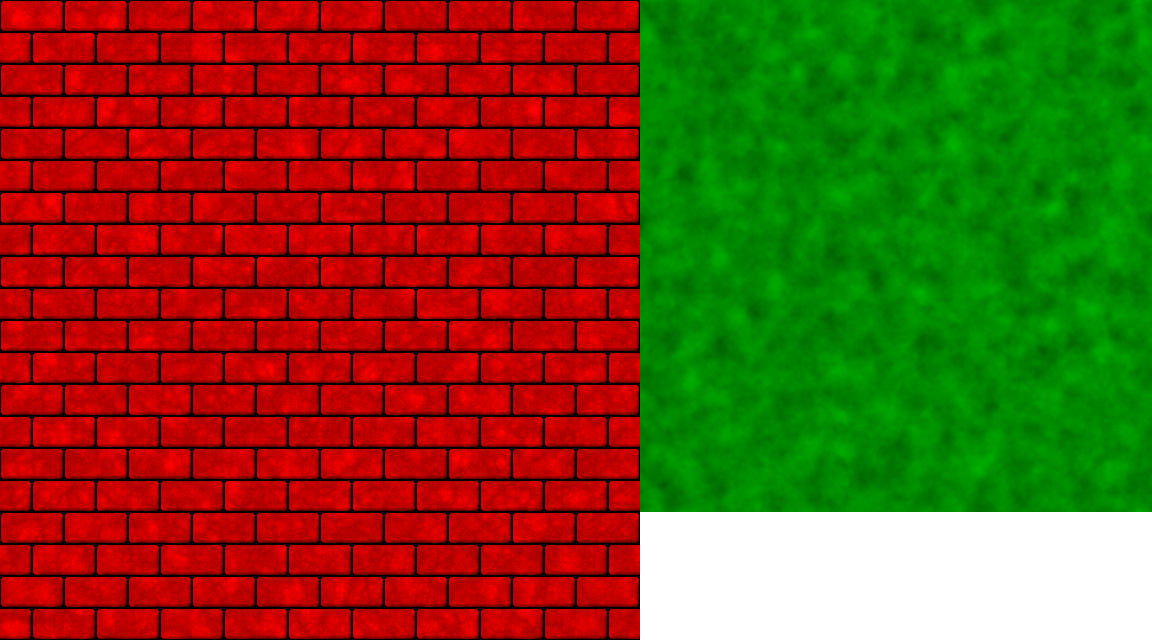
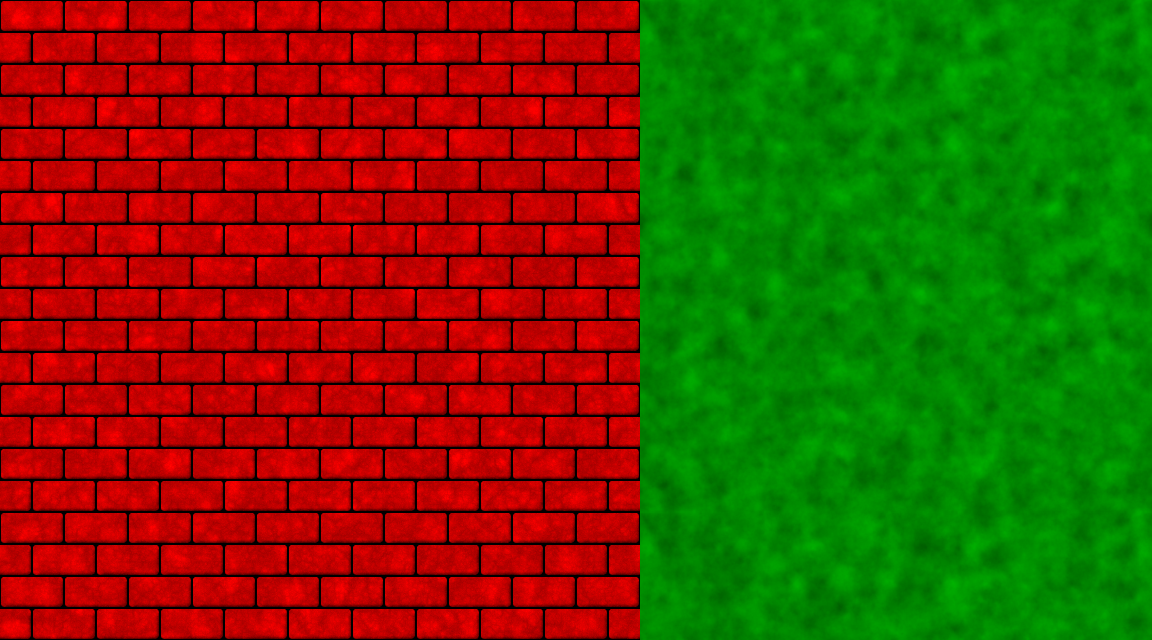
better grass

Changed region(s): [[0.5312, 0.7812, 1.0, 1.0]]

diff --git a/src/D3DApp.cpp b/src/D3DApp.cpp
@@ -175,14 +175,27 @@ void initTriangleAndInstanceData() {
 	double brick_d = 640;
 	double grass_d = 512;
 	double full_d = brick_d + grass_d;
+	double full_h = 640;
 
+	// double eff_grass_d = 512;
+	
 	for (auto& floor_vertex : maze.floor) {
 		assert(floor_vertex.tex_coord[0] >= 0 && floor_vertex.tex_coord[0] <= 1);
 		assert(floor_vertex.tex_coord[1] >= 0 && floor_vertex.tex_coord[1] <= 1);
-		floor_vertex.tex_coord[0] = (brick_d / full_d) + floor_vertex.tex_coord[0] * (1 - brick_d / full_d);
-		floor_vertex.tex_coord[1] = floor_vertex.tex_coord[1] * (grass_d / brick_d);
-		assert(floor_vertex.tex_coord[0] >= 0 && floor_vertex.tex_coord[0] <= 1);
-		assert(floor_vertex.tex_coord[1] >= 0 && floor_vertex.tex_coord[1] <= 1);
+		
+		floor_vertex.tex_coord[0] = (brick_d / full_d) + floor_vertex.tex_coord[0] * (1 - (brick_d / full_d));
+		floor_vertex.tex_coord[1] = floor_vertex.tex_coord[1] * (grass_d / full_h);;
+		
+		float val = 1 - 1/full_d;
+		float val_s = brick_d / full_d + 1/full_d;
+
+		if (floor_vertex.tex_coord[0] > val) floor_vertex.tex_coord[0] = val;
+		if (floor_vertex.tex_coord[1] > val) floor_vertex.tex_coord[1] = val;
+
+		if (floor_vertex.tex_coord[0] < val_s) floor_vertex.tex_coord[0] = val_s;
+		
+		// assert(floor_vertex.tex_coord[0] >= 0 && floor_vertex.tex_coord[0] <= 1);
+		// assert(floor_vertex.tex_coord[1] >= 0 && floor_vertex.tex_coord[1] <= 1);
 	}
 
 	for (auto& maze_vertex : maze.cuboid) {
